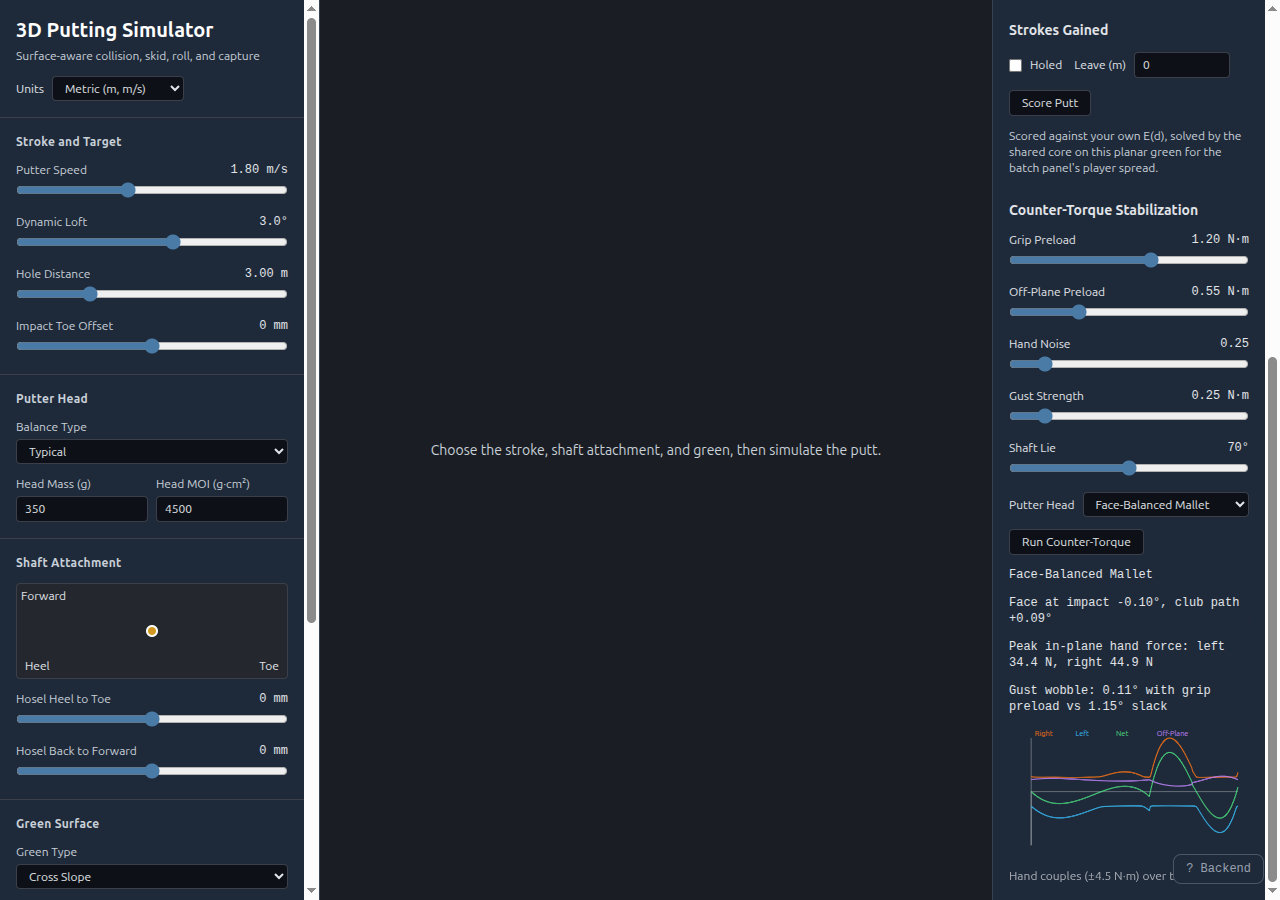
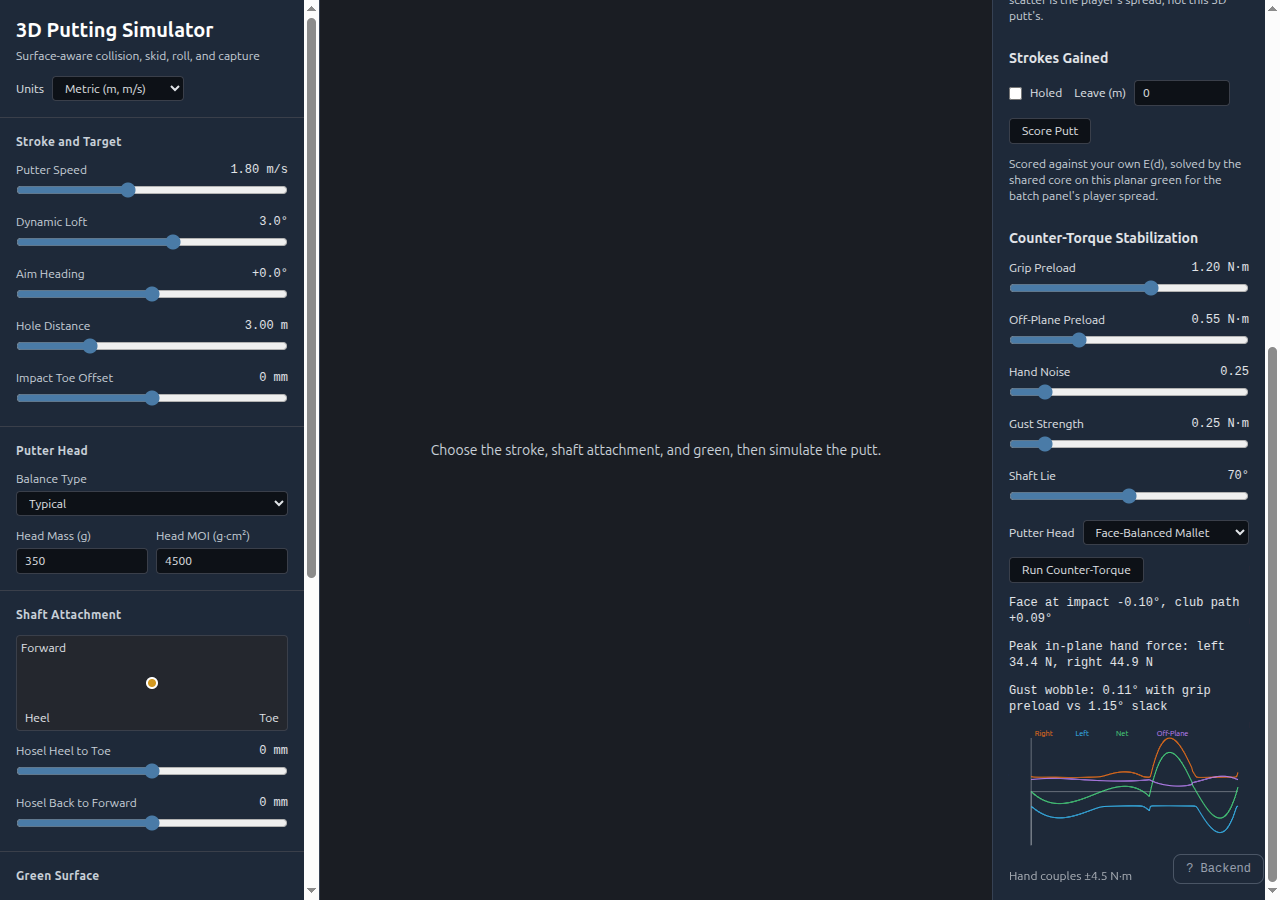
fix(ui): counter-torque explorer follows the page's unit system (#14470)
Lane-3 FIX-NEEDED: add force (N/lbf) and torque (N·m/in·lbf) quantities to
units.ts with units.py's factors (a pound under standard g), tested first, and
format the sliders, hand-force readout and chart span via formatQuantity with
the store's unitSystem; the request stays SI. Golden summary keys match
ctSummary so one assertion pins it. Drop the blank and unreferenced
screenshots and retake the after shots (phone in imperial).

diff --git a/ui/src/components/putting/CounterTorquePanel.tsx b/ui/src/components/putting/CounterTorquePanel.tsx
@@ -4,6 +4,7 @@ import { useMutation, useQuery } from "@tanstack/react-query";
 
 import type { CounterTorqueRequest } from "@/api/generated/types";
 import { fetchCounterTorque, fetchPutterPresets } from "@/api/puttingClient";
+import { usePuttingStore } from "@/stores/usePuttingStore";
 import {
   COUNTER_TORQUE_CONTROLS,
   COUNTER_TORQUE_DEFAULTS,
@@ -11,10 +12,9 @@ import {
   ctSummary,
   type CounterTorqueSamples,
 } from "@/utils/counterTorque";
+import { formatQuantity } from "@/utils/units";
 
-const W = 260;
-const H = 140;
-const PAD = 24;
+const [W, H, PAD] = [260, 140, 24];
 // The studio's torque strip chart: series and colour.
 const CURVES = [
   ["tau_right_in_nm", "#f97316", "Right"],
@@ -28,6 +28,7 @@ const inputStyle = {
 };
 
 function CoupleChart({ samples }: { samples: CounterTorqueSamples }) {
+  const system = usePuttingStore((state) => state.unitSystem);
   const t = samples.t_s;
   const tEnd = t[t.length - 1] || 1;
   const x = (ti: number) => PAD + (ti / tEnd) * (W - 1.5 * PAD);
@@ -63,7 +64,7 @@ function CoupleChart({ samples }: { samples: CounterTorqueSamples }) {
         ))}
       </svg>
       <p className="opacity-70">
-        Hand couples (±{span.toFixed(1)} N·m) over the stroke
+        Hand couples ±{formatQuantity(span, "torque", system, 1)}
       </p>
     </>
   );
@@ -78,6 +79,7 @@ export function CounterTorquePanel() {
     queryFn: fetchPutterPresets,
   });
   const run = useMutation({ mutationFn: fetchCounterTorque });
+  const system = usePuttingStore((state) => state.unitSystem);
   const update = (changes: Partial<CounterTorqueRequest>) =>
     setRequest((current) => ({ ...current, ...changes }));
 
@@ -88,8 +90,9 @@ export function CounterTorquePanel() {
           <span className="mb-1 flex justify-between">
             <span>{c.label}</span>
             <span className="font-mono">
-              {request[c.key].toFixed(c.step < 1 ? 2 : 0)}
-              {c.unit}
+              {c.unit === "torque"
+                ? formatQuantity(request[c.key], "torque", system, 2)
+                : `${request[c.key].toFixed(c.step < 1 ? 2 : 0)}${c.unit}`}
             </span>
           </span>
           <input
@@ -99,9 +102,7 @@ export function CounterTorquePanel() {
             max={c.max}
             step={c.step}
             value={request[c.key]}
-            onChange={(event) =>
-              update({ [c.key]: Number(event.target.value) })
-            }
+            onChange={(e) => update({ [c.key]: Number(e.target.value) })}
             className="w-full"
             style={{ accentColor: "var(--sidekick-color-accent)" }}
           />
@@ -141,7 +142,7 @@ export function CounterTorquePanel() {
       )}
       {run.data && (
         <>
-          {ctReadout(ctSummary(run.data.samples)).map((line) => (
+          {ctReadout(ctSummary(run.data.samples), system).map((line) => (
             <p key={line} className="font-mono">
               {line}
             </p>

diff --git a/ui/src/utils/counterTorque.ts b/ui/src/utils/counterTorque.ts
@@ -1,17 +1,14 @@
-/**
- * Counter-torque explorer (#14470): sliders bounded by the core's ranges and a
- * summary read off the core's POST /counter-torque series (golden-pinned).
- */
+/** Counter-torque explorer (#14470) over the core's /counter-torque series. */
 
 import type { CounterTorqueRequest } from "@/api/generated/types";
+import { formatQuantity, type UnitSystem } from "@/utils/units";
 
 type SliderKey = Exclude<keyof CounterTorqueRequest, "putter" | "n_points">;
 
-const NM = " N·m";
 const control = (
   key: SliderKey,
   label: string,
-  unit: string,
+  unit: "torque" | "" | "°",
   [min, max]: [number, number],
   step = 0.05,
 ) => ({ key, label, unit, min, max, step });
@@ -20,10 +17,10 @@ export type CounterTorqueControl = ReturnType<typeof control>;
 
 /** Sliders, bounded by the core's PRELOAD/NOISE/GUST/LIE ranges. */
 export const COUNTER_TORQUE_CONTROLS: readonly CounterTorqueControl[] = [
-  control("preload_nm", "Grip Preload", NM, [0, 2]),
-  control("off_preload_nm", "Off-Plane Preload", NM, [0, 2]),
+  control("preload_nm", "Grip Preload", "torque", [0, 2]),
+  control("off_preload_nm", "Off-Plane Preload", "torque", [0, 2]),
   control("noise_scale", "Hand Noise", "", [0, 2]),
-  control("gust_impulse_nm", "Gust Strength", NM, [0, 2]),
+  control("gust_impulse_nm", "Gust Strength", "torque", [0, 2]),
   control("lie_deg", "Shaft Lie", "°", [55, 85], 1),
 ];
 
@@ -53,10 +50,7 @@ const peak = (samples: CounterTorqueSamples, key: string) =>
 
 /** Impact face and path, peak in-plane hand forces, gust wobble peaks. */
 export function ctSummary(samples: CounterTorqueSamples) {
-  const last = (key: string) => {
-    const values = series(samples, key);
-    return values[values.length - 1];
-  };
+  const last = (key: string) => series(samples, key).slice(-1)[0];
   return {
     faceDeg: last("face_angle_impact_deg"),
     pathDeg: last("club_path_impact_deg"),
@@ -71,11 +65,12 @@ export type CounterTorqueSummary = ReturnType<typeof ctSummary>;
 
 const signed = (deg: number) => `${deg >= 0 ? "+" : ""}${deg.toFixed(2)}°`;
 
-/** The explorer's readout lines. */
-export function ctReadout(s: CounterTorqueSummary): string[] {
+/** The explorer's readout lines, forces in the page's display units. */
+export function ctReadout(s: CounterTorqueSummary, system: UnitSystem) {
+  const force = (n: number) => formatQuantity(n, "force", system, 1);
   return [
     `Face at impact ${signed(s.faceDeg)}, club path ${signed(s.pathDeg)}`,
-    `Peak in-plane hand force: left ${s.peakForceLeftN.toFixed(1)} N, right ${s.peakForceRightN.toFixed(1)} N`,
+    `Peak in-plane hand force: left ${force(s.peakForceLeftN)}, right ${force(s.peakForceRightN)}`,
     `Gust wobble: ${s.gustPreloadDeg.toFixed(2)}° with grip preload vs ${s.gustSlackDeg.toFixed(2)}° slack`,
   ];
 }

diff --git a/ui/src/utils/counterTorque.test.ts b/ui/src/utils/counterTorque.test.ts
@@ -11,17 +11,15 @@ describe("counter-torque explorer (#14470)", () => {
   });
 
   it("reads face, path, peak hand forces and gust wobble off the series", () => {
-    const s = ctSummary(golden.response.samples);
-    expect(s.faceDeg).toBe(golden.summary.face_deg);
-    expect(s.pathDeg).toBe(golden.summary.path_deg);
-    expect(s.peakForceLeftN).toBe(golden.summary.peak_force_left_n);
-    expect(s.peakForceRightN).toBe(golden.summary.peak_force_right_n);
-    expect(s.gustPreloadDeg).toBe(golden.summary.gust_preload_deg);
-    expect(s.gustSlackDeg).toBe(golden.summary.gust_slack_deg);
+    expect(ctSummary(golden.response.samples)).toEqual(golden.summary);
   });
 
   it("names the readout lines", () => {
-    expect(ctReadout(ctSummary(golden.response.samples))).toEqual([
+    const summary = ctSummary(golden.response.samples);
+    expect(ctReadout(summary, "imperial")[1]).toBe(
+      "Peak in-plane hand force: left 2.7 lbf, right 5.3 lbf",
+    );
+    expect(ctReadout(summary, "metric")).toEqual([
       "Face at impact -0.12°, club path +0.11°",
       "Peak in-plane hand force: left 12.0 N, right 23.6 N",
       "Gust wobble: 0.08° with grip preload vs 0.46° slack",

diff --git a/ui/src/utils/units.ts b/ui/src/utils/units.ts
@@ -5,11 +5,14 @@
  */
 
 export type UnitSystem = "metric" | "imperial";
-export type Quantity = "distance" | "speed" | "smallLength" | "breakLength";
+export type Quantity =
+  "distance" | "speed" | "smallLength" | "breakLength" | "force" | "torque";
 
 export const UNIT_SYSTEMS: readonly UnitSystem[] = ["metric", "imperial"];
 
 const FT_TO_M = 0.3048;
+const LBF_TO_N = 0.45359237 * 9.80665; // a pound under standard g, as units.py
+const IN_LBF_TO_NM = (FT_TO_M / 12) * LBF_TO_N;
 const STORAGE_KEY = "ud.unitSystem";
 
 /** SI value of one display unit, and its suffix, per quantity and system. */
@@ -19,6 +22,8 @@ const UNITS: Record<Quantity, Record<UnitSystem, [number, string]>> = {
   smallLength: { metric: [0.001, " mm"], imperial: [FT_TO_M / 12, " in"] },
   // Putt break as format_read shows it: cm, not mm, in metric (#14466).
   breakLength: { metric: [0.01, " cm"], imperial: [FT_TO_M / 12, " in"] },
+  force: { metric: [1, " N"], imperial: [LBF_TO_N, " lbf"] },
+  torque: { metric: [1, " N·m"], imperial: [IN_LBF_TO_NM, " in·lbf"] },
 };
 
 export function toDisplay(si: number, q: Quantity, s: UnitSystem): number {

diff --git a/ui/src/utils/units.test.ts b/ui/src/utils/units.test.ts
@@ -78,3 +78,14 @@ describe("unit preference", () => {
     expect(loadUnitSystem()).toBe("metric");
   });
 });
+
+describe("force and torque (#14470)", () => {
+  it("shows lbf and in·lbf in imperial with units.py's factors", () => {
+    const lbf = 0.45359237 * 9.80665;
+    expect(formatQuantity(lbf, "force", "imperial", 3)).toBe("1.000 lbf");
+    expect(formatQuantity(0.0254 * lbf, "torque", "imperial", 3)).toBe(
+      "1.000 in·lbf",
+    );
+    expect(formatQuantity(1.2, "torque", "metric", 2)).toBe("1.20 N·m");
+  });
+});

diff --git a/ui/src/components/putting/CounterTorquePanel.ui.test.tsx b/ui/src/components/putting/CounterTorquePanel.ui.test.tsx
@@ -43,7 +43,6 @@ describe("CounterTorquePanel (#14470)", () => {
     fireEvent.click(screen.getByRole("button", { name: "Run Counter-Torque" }));
 
     await waitFor(() => expect(fetchCounterTorque).toHaveBeenCalledOnce());
-    // The core's own grid (stroke_series default); the golden is a coarse one.
     expect(vi.mocked(fetchCounterTorque).mock.calls[0][0]).toEqual({
       ...golden.request,
       n_points: 210,

diff --git a/tests/unit/shared_python/test_counter_torque_ui_golden.py b/tests/unit/shared_python/test_counter_torque_ui_golden.py
@@ -1,8 +1,4 @@
-"""``ui/src/utils/counterTorque.golden.json`` matches the shared core (#14470).
-
-Its series are the core's stroke series for ``request`` and its ranges the
-core's; ``counterTorque.test.ts`` reads the summary off those series.
-"""
+"""``ui/src/utils/counterTorque.golden.json`` matches the shared core (#14470)."""
 
 from __future__ import annotations
 
@@ -17,28 +13,24 @@ from src.shared.python.putting_dynamics.putter_presets import balance_preset
 
 pytestmark = pytest.mark.unit
 
-_GOLDEN = Path(__file__).resolve().parents[3] / "ui/src/utils/counterTorque.golden.json"
+_PATH = Path(__file__).resolve().parents[3] / "ui/src/utils/counterTorque.golden.json"
+GOLDEN = json.loads(_PATH.read_text(encoding="utf-8"))
 
 
-@pytest.fixture(scope="module")
-def golden() -> dict:
-    return json.loads(_GOLDEN.read_text(encoding="utf-8"))
-
-
-def test_response_is_the_core_stroke_series(golden: dict) -> None:
-    settings = dict(golden["request"])
+def test_response_is_the_core_stroke_series() -> None:
+    settings = dict(GOLDEN["request"])
     n_points = settings.pop("n_points")
     inputs = ct.CounterTorqueInputs(**settings)
     series = [asdict(s) for s in ct.stroke_series(inputs, n_points=n_points)]
-    response = golden["response"]
+    response = GOLDEN["response"]
     assert response["putter_name"] == balance_preset(inputs.putter).name
     assert set(response["samples"]) <= set(series[0])
     for key, values in response["samples"].items():
         assert values == pytest.approx([s[key] for s in series], abs=1e-12), key
 
 
-def test_ranges_are_the_core_ranges(golden: dict) -> None:
-    assert golden["ranges"] == {
+def test_ranges_are_the_core_ranges() -> None:
+    assert GOLDEN["ranges"] == {
         "preload_nm": list(ct.PRELOAD_RANGE_NM),
         "off_preload_nm": list(ct.PRELOAD_RANGE_NM),
         "noise_scale": list(ct.NOISE_RANGE),
